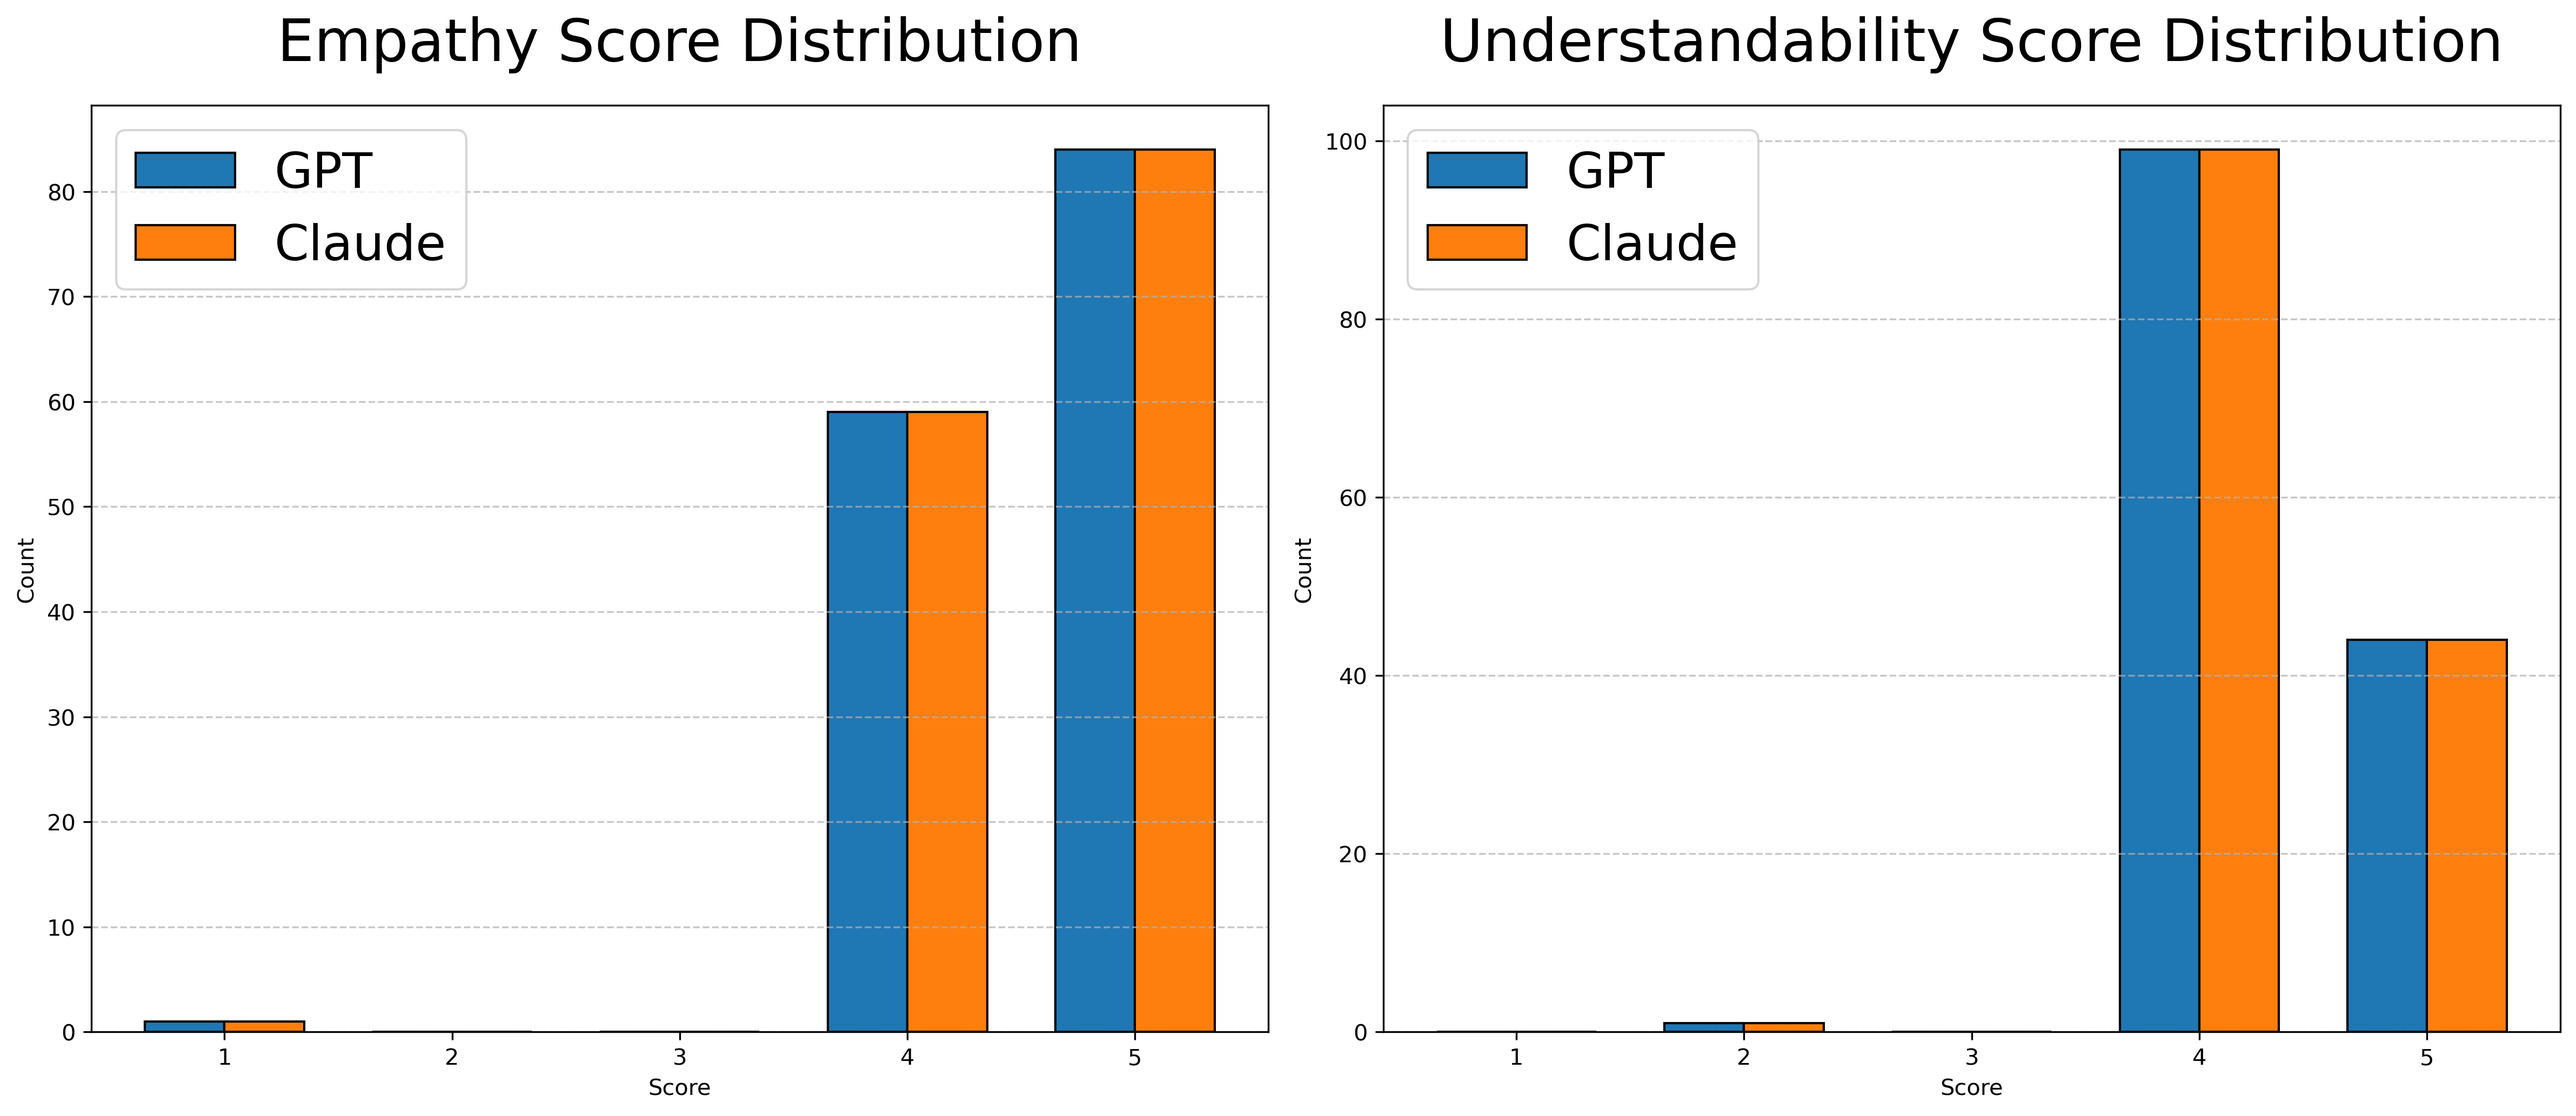
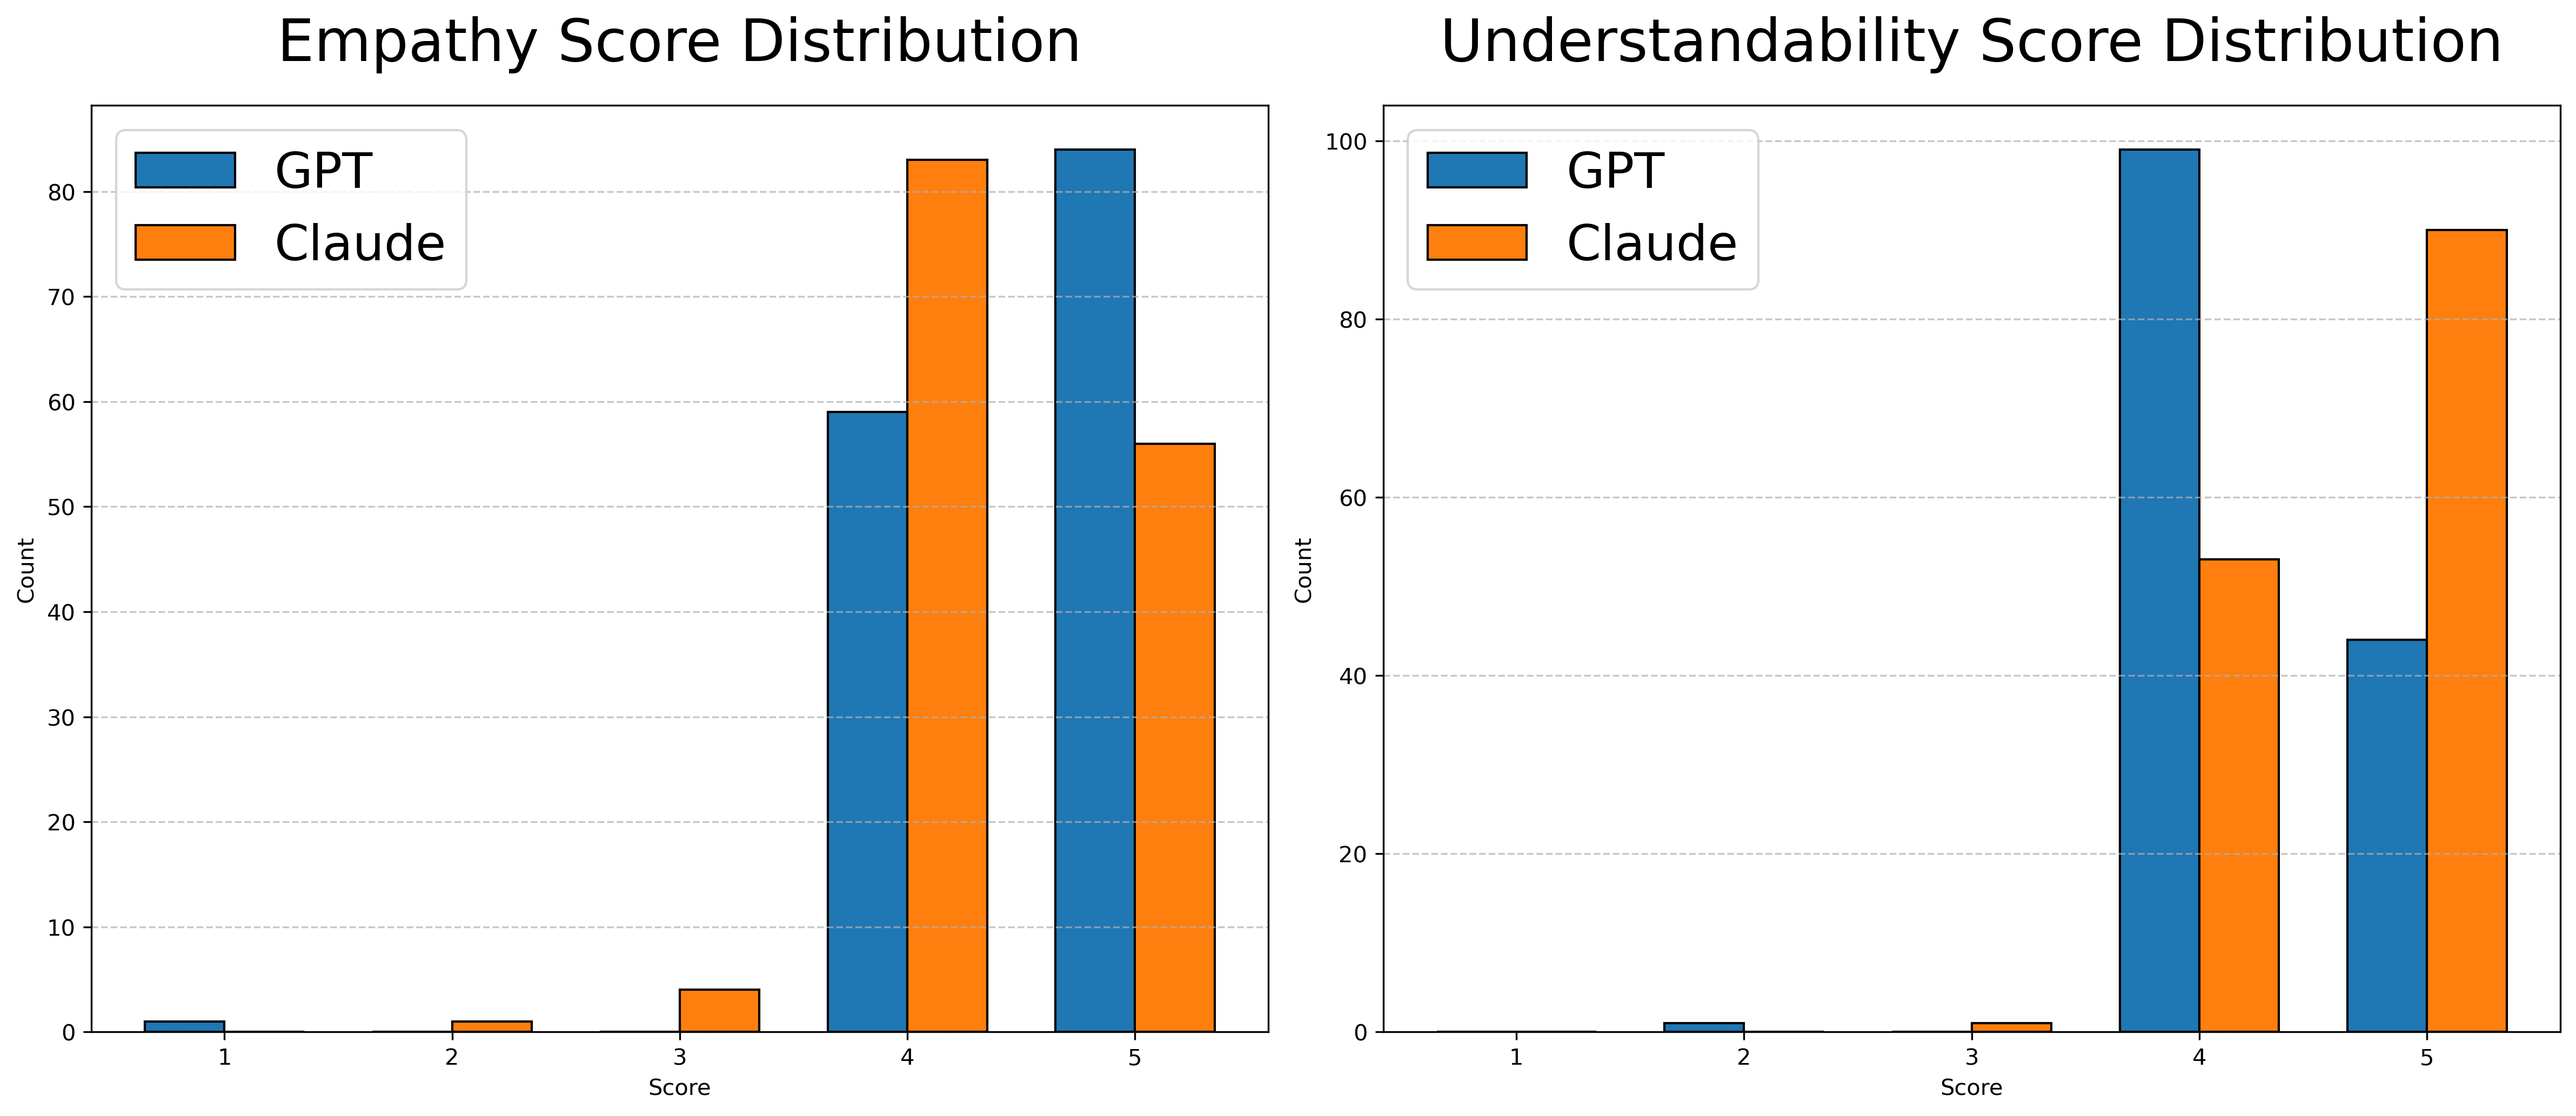
update plot

diff --git a/plot.py b/plot.py
@@ -4,7 +4,7 @@ import numpy as np
 
 # Read both CSV files
 gpt_df = pd.read_csv('gpt_response_gpt_rating.csv')
-claude_df = pd.read_csv('gpt_response_gpt_rating.csv')
+claude_df = pd.read_csv('claude_response_claude_rating.csv')
 
 # Define a function to process score distributions
 def get_score_distributions(df, score_range=(1,5)):
